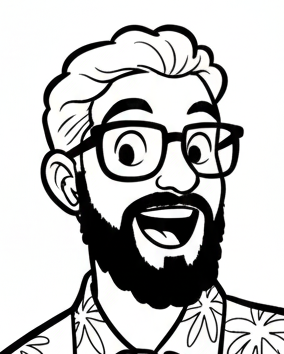
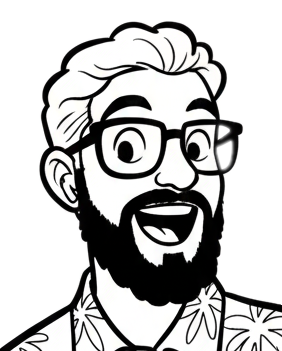
fix: improvement in the behavior of managing the page theme

diff --git a/src/components/layout/header/atom/ProfilePicture/pictureProfile.tsx b/src/components/layout/header/atom/ProfilePicture/pictureProfile.tsx
@@ -13,7 +13,7 @@ export default function ProfilePicture() {
   return (
     <>
       {!isMobile &&
-        <div className='w-20 h-20 flex justify-center items-center bg-white dark:bg-black border border-zinc-300 rounded-2xl overflow-hidden'>
+        <div className='w-20 h-20 flex justify-center items-center bg-zinc-100 dark:bg-zinc-900 border border-border rounded-2xl overflow-hidden'>
           {image}
         </div>
       }

diff --git a/src/components/layout/header/atom/Me/index.tsx b/src/components/layout/header/atom/Me/index.tsx
@@ -7,7 +7,7 @@ export function Me() {
                 <P className='text-2xl font-semibold'>
                     Arthur Lucena
                 </P>
-                <P className='text-sm border-zinc-300 dark:border-zinc-800'>
+                <P className='text-sm text-zinc-600 dark:text-zinc-400'>
                     full-stack developer
                 </P>
             </div>
